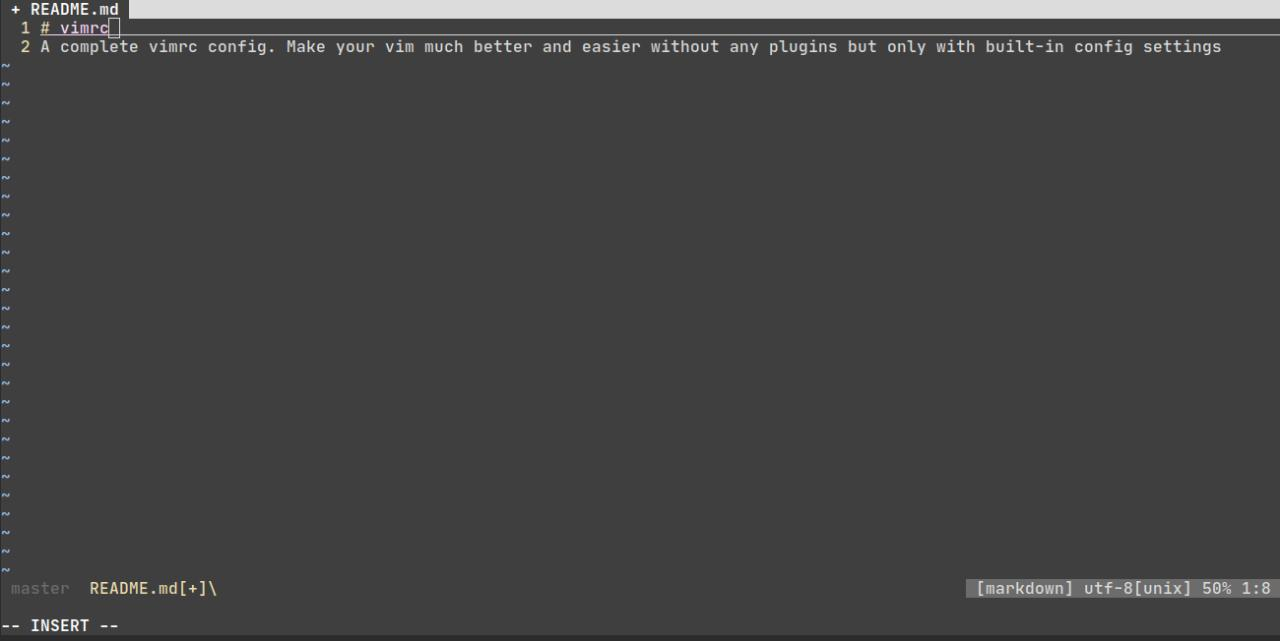
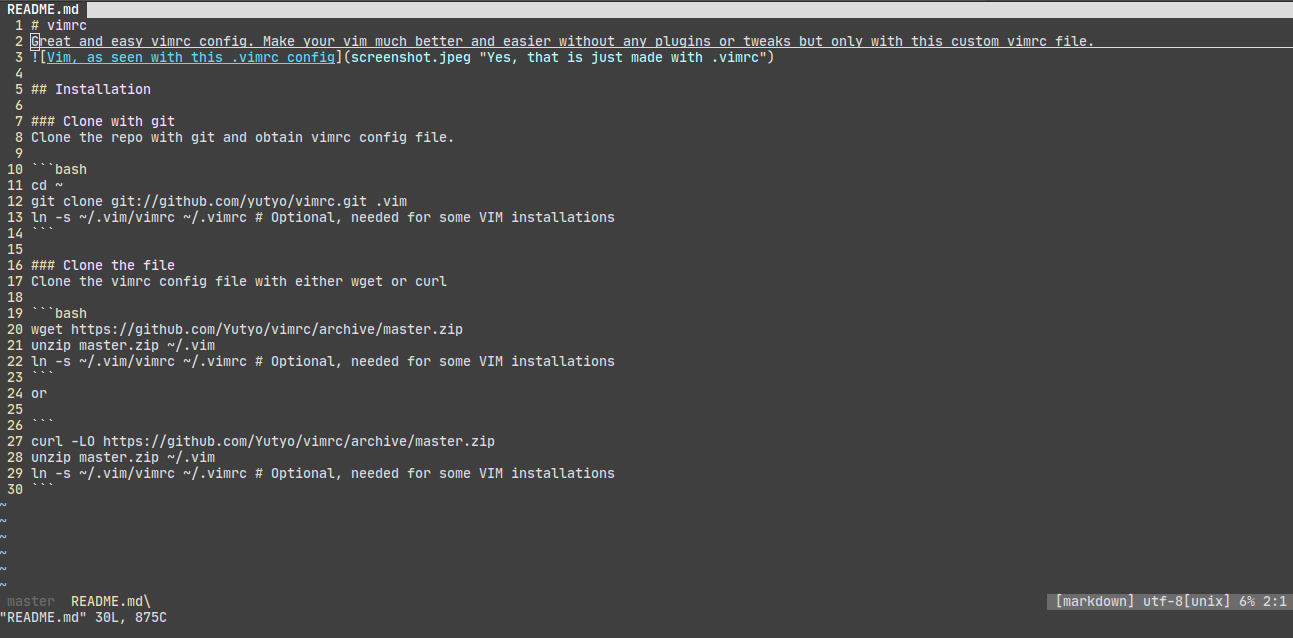
edit README

Changed region(s): [[0.0, 0.0, 1.0, 0.7743], [0.75, 0.8934, 1.0, 0.9828], [0.0, 0.8934, 0.1562, 1.0]]

diff --git a/README.md b/README.md
@@ -1,11 +1,11 @@
 # vimrc
-Great .vimrc config. Make your vim function and look better without any plugins but only with built-in config settings.
+Great and easy vimrc config. Make your vim much better and easier without any plugins or tweaks but only with this custom vimrc file.
 ![Vim, as seen with this .vimrc config](screenshot.jpeg "Yes, that is just made with .vimrc")
 
 ## Installation
 
 ### Clone with git
-Clone the repo with git and obtain .vimrc config file.
+Clone the repo with git and obtain vimrc config file.
 
 ```bash
 cd ~
@@ -14,12 +14,17 @@ ln -s ~/.vim/vimrc ~/.vimrc # Optional, needed for some VIM installations
 ```
 
 ### Clone the file
-Clone the .vimrc config file with either wget or curl
+Clone the vimrc config file with either wget or curl
 
 ```bash
 wget https://github.com/Yutyo/vimrc/archive/master.zip
 unzip master.zip ~/.vim
+ln -s ~/.vim/vimrc ~/.vimrc # Optional, needed for some VIM installations
 ```
+or
 
-
-
+```
+curl -LO https://github.com/Yutyo/vimrc/archive/master.zip
+unzip master.zip ~/.vim
+ln -s ~/.vim/vimrc ~/.vimrc # Optional, needed for some VIM installations
+```
